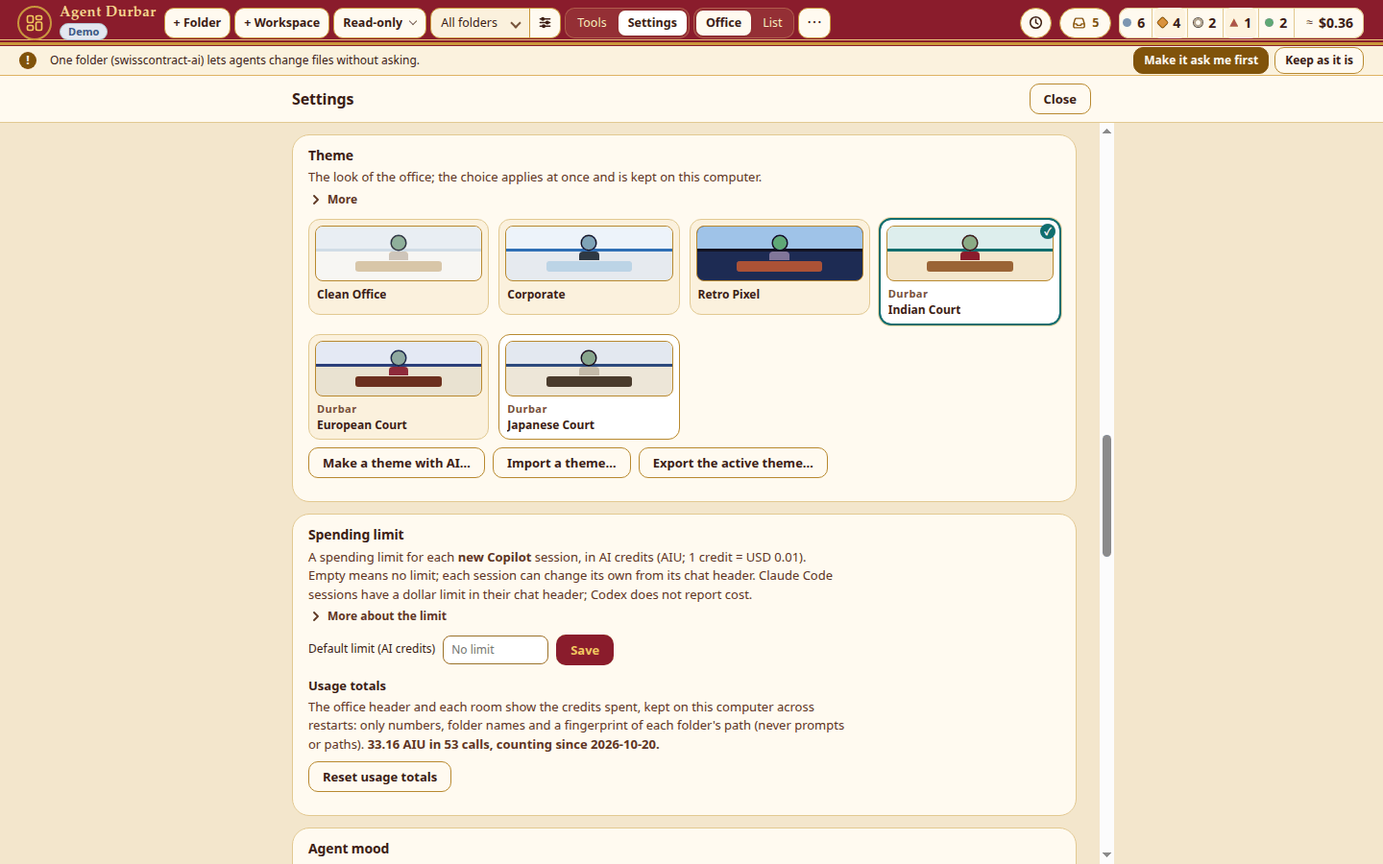
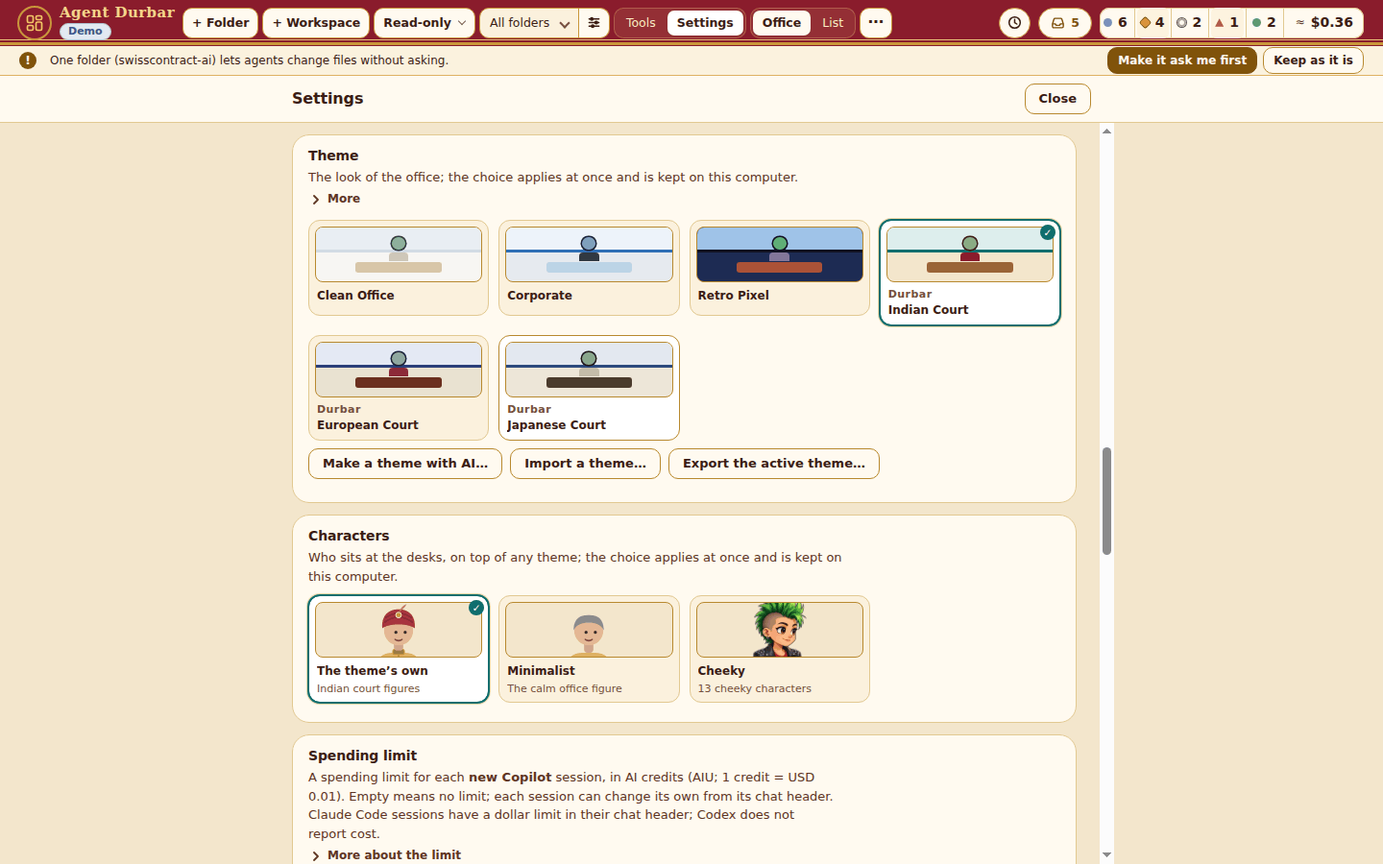
077: Characters docs, pictures and spec status (T076..T083, 035 T018)
The theme picker picture is retaken (040-theme-picker: Characters now
follows Theme); the Settings section and Cheeky on Retro Pixel at both
sizes are in docs/screenshots/077-characters-*. FR-064..FR-070 tagged
with their evidence; check:office with Cheeky fails only the cases it
fails without it on Retro Pixel and Corporate (recorded). The driver
takes calm pictures; stale 'Cheeky Crew theme' comments fixed.

Claude-Session: https://claude.ai/code/session_01Mj63agcLftbxvrSoGqM1Fp

diff --git a/scripts/check-characters.js b/scripts/check-characters.js
@@ -94,7 +94,7 @@ module.exports = async (ctx) => {
         await H.clearToasts();
         await ctx.sleep(400);
         assert.ok(await H.until(inView, 3000), `${where}: still in view before the picture`);
-        await ctx.shot(path.join(out, `077-characters-settings-${tag}.png`));
+        await H.shot(path.join(out, `077-characters-settings-${tag}.png`), { prep: 'mouse' });
       }
       await close();
       let d = await desks();
@@ -106,7 +106,7 @@ module.exports = async (ctx) => {
       assert.strictEqual(await H.js(`window.THEME.current().id`), theme, `${where}: the theme stays ${theme}`);
       assert.strictEqual(await H.js(`window.THEME.themeKit()`), kit, `${where}: the theme's own kit is unchanged`);
       await H.clearToasts();
-      await ctx.shot(path.join(out, `077-characters-cheeky-${theme}-${tag}.png`));
+      await H.shot(path.join(out, `077-characters-cheeky-${theme}-${tag}.png`), { prep: 'calm' }); // the pointer off the desks (no hover pencil), no toast
       // Minimalist on top of the theme
       await pickChars('minimalist');
       await close();

diff --git a/src/renderer/scenekits.js b/src/renderer/scenekits.js
@@ -297,7 +297,7 @@
     hand: (o, x, y) => roundHand(o, x, y),
   };
 
-  /* ---------- Crew (spec 077): a playful desk for the Cheeky Crew theme; colours from tokens only, no literals ---------- */
+  /* ---------- Crew (spec 077): a playful desk for Characters = Cheeky (on any theme, FR-065); colours from tokens only, no literals ---------- */
   /* Furniture and a plain figure for now: the characters (clothes, hair, eyewear, mug, desk prop) come with the art format.
      `o.crew` is the character id app.js hands over; it is part of the signature so a scene is never reused for another character. */
   /* The character is a portrait (spec 077 FR-050..FR-055): `<image>` in a fixed box, one picture per pose, chosen by the status. Everything

diff --git a/src/renderer/theme.js b/src/renderer/theme.js
@@ -174,7 +174,7 @@
     '--pb-done':'#e0eee6',
     '--pc-done':'#2f6a47',
 
-    /* the Cheeky Crew kit's own accents (spec 077): trim and outline colours of its furniture and, later, its characters */
+    /* the crew kit's own accents (spec 077, Characters = Cheeky): trim and outline colours of its furniture and, later, its characters */
     '--crew-ink':'#3a3331',
     '--crew-accent':'#d9577a',
     '--crew-accent-2':'#2f9c95',

diff --git a/specs/077-cheeky-crew/spec.md b/specs/077-cheeky-crew/spec.md
@@ -2,7 +2,7 @@
 
 <!-- specs-index (the row of the generated specs index; npm run specs:index shows it)
 group: 046
-title: Cheeky crew (issue #558): a built-in theme and scene kit with 13 AI-generated, person-reviewed portrait characters (3 poses each), picked at random per session and kept across restarts; status cues and spec 034 moods unchanged
+title: Cheeky crew (issue #558; a Characters choice since issue #814): a built-in scene kit with 13 AI-generated, person-reviewed portrait characters (3 poses each), picked at random per session and kept across restarts; status cues and spec 034 moods unchanged
 status: built 2026-10-23 (experimental, no priority); since 2026-10-28 (issue #814) Cheeky is a Characters option in Settings on any theme, no longer a theme (FR-064..FR-070, Q9 open): raster path (Q1 = (d)), 13 characters x 3 poses (FR-059), face crops and the doubled desk portrait (FR-060); open: check:crew over every mood and density and a reload (T023), a rendered every-status sheet (T025); known gaps: 1280x800 couch seat 20 px under its chat badge, no capture-against-canvas sharpness check, Windows not run by a person
 -->
 
@@ -136,7 +136,7 @@ The walking figure in the lobby, the resting figure in the lounge, the chat head
 ### Kit and theme
 
 - **FR-001** A new scene kit **`crew`** joins the fixed kit list (spec 035 FR-013) in `scenekits.js` (`KITS`), `theme.js` (`SCENE_KITS`) and `src/shared/themes.ts` (`SCENE_KITS`); `test:scenekits` already asserts the lists match (`scripts/test-scenekits.ts:19`). The AI theme maker prompt lists it (Q5).
-- **FR-002** A new built-in theme **Cheeky Crew** (id `cheeky-crew`, `scene: 'crew'`, an existing UI style, `extends: 'clean-office'`) is registered in `theme.js` like the other built-in packs and named in every list of built-in ids (`src/main/ipc/themes.ts:23` and the test and driver lists, see plan). It lays out exactly like Clean Office (spec 035 FR-010): only colours and the kit change.
+- **FR-002** (superseded 2026-10-28 by FR-066: Cheeky is now a Characters choice, not a theme) A new built-in theme **Cheeky Crew** (id `cheeky-crew`, `scene: 'crew'`, an existing UI style, `extends: 'clean-office'`) is registered in `theme.js` like the other built-in packs and named in every list of built-in ids (`src/main/ipc/themes.ts:23` and the test and driver lists, see plan). It lays out exactly like Clean Office (spec 035 FR-010): only colours and the kit change.
 - **FR-003** The `crew` kit draws through the existing composer (`draw()` and `avatar()` in `scenekits.js`), so the halo, screen content, face (eyes and mouth), arms and hands, cup steam, thought bubble and mood signs are the shared code, in the same places and with the same animation hooks (`.pp`, `.head`, `.hand-l`, `.hand-r`, `.wave`, `.tap`, `.bar`, `.cursor`, `.steam`, `.bubble-g`, `.dizzy`, `.sweat`, `.amb`, `.halo`, `.glow`). Its furniture (chair, desk, monitor frame, keyboard) is its own, in a playful style, coloured by tokens.
 
 ### Characters
@@ -232,13 +232,13 @@ FR-011..FR-016 describe the drawn SVG option (b′). If Q1 picks raster, FR-050.
 - 2026-10-27 (review on PR 621, Vikram and Copilot's threads of 2026-10-23): **FR-063** the lifecycle and the fallback are closed. (1) `crew.js` missing is a fallback too (FR-017, T028): `window.DurbarCrew` may be null, every crew call in `app.js` then answers "no character", and the kit draws the plain figure with no throw, on theme pick and on restore at start. (2) The character map follows the **main-session ids**, not the identity of the `agents` array (a removal splices it): a closed session, its helpers, and the last session leave `CREW_MAP`, `CREW_HELP` and `durbar.crew` at the next render. (3) When a character falls back after the chat header or the inbox is open, those avatars are redrawn as the plain figure (`crewRefreshAvatars`), without rebuilding the panel or the inbox. (4) Helpers count in the least-used rule (already in `crewOf`: the main map and the live helper map are both handed to `pickCharacter`; `test:crew` gains the interleaved case). `check:crew` has a step for each of (1)..(3) (the module removed from a copy of `dist/`, sessions removed through the simulator hook `__durbarSimUi.crew`, a character's pictures failing after mount). (5) Vikram's question, answered yes: `test:theme-tokens` asserts that the **authored** tokens of Cheeky Crew (and Clean Office) meet every `CONTRAST_PAIRS` entry, because built-ins are not repaired at run time (`applyTokens` skips `contrastFix` for them); a dark `--bg` mutant fails it. `test:theme` alone did not see it.
 
 - 2026-10-28 (owner decision, Paco, issue #814, 2026-10-27): **Characters, separate from themes** (FR-064..FR-070). Settings gets two choices: **Theme** (colours and look) and **Characters** (who sits at the desks). Cheeky Crew stops being a theme and becomes a Characters option; a crew is a scene kit the user picks (the `SCENE_KITS` list, the raster path and the `FACE` points of FR-050..FR-063 are reused as they are), not a new mechanism. Supersedes FR-002 (the built-in theme) and the "Cheeky Crew theme" wording of FR-055 and FR-061..FR-063: those rules now hold whenever the crew kit is drawn, on any theme.
-  - **FR-064** A **Characters** setting with three values: `theme` (**The theme's own**, the default), `minimalist` (**Minimalist**, today's calm office figure: the `office` kit) and `cheeky` (**Cheeky**: the `crew` kit). New crews are added later as more values. It is saved with the other appearance settings in main's `durbar-settings.json` as `characters` (spec 011 FR-012; `theme` is the default and is not written). Reading is tolerant: a stored value that is not one of the list is dropped, so the default applies. The window sets it through a new validated call `settings:setCharacters`; main accepts only a value from the list and otherwise refuses with `ok: false` and keeps the stored value (no permissive default, review checklist). `settings:get` returns it. No path, no token, no content.
-  - **FR-065** **Kit resolution**: the kit drawn is `kitFor(themeKit, characters)`: with `theme` it is the theme's own kit (its manifest's `scene`, `office` when missing or unknown, spec 035 FR-013); with `minimalist` it is `office`; with `cheeky` it is `crew`. This holds on top of **any** theme: the built-ins, user packs and AI themes. The theme's tokens still colour the kit and its art slots are drawn over it as before (spec 040 FR-023, FR-030); the layout is the same in every kit (`check:geometry`). The choice is part of the scene cache key and of every scene signature (a switch redraws every desk, walker and avatar). Today the theme's own kit is `office` for Clean Office, `corporate` for Corporate, `pixel` for Retro Pixel and the court kit for each of the three courts, so nobody who keeps the default sees a change. `[KNOWN GAP]` Q9 below: the issue's "Minimalist in the normal themes" could also mean Corporate's own is Minimalist; this build keeps Corporate's suits (the theme names that kit) until the owner says otherwise.
-  - **FR-066** **Cheeky Crew is no longer a theme.** It leaves the built-in theme list (`theme.js`, the Theme picker, `THEME.list()`); the `crew` kit stays in `SCENE_KITS` (a user pack may still name `scene: "crew"`, Q5). The id `cheeky-crew` stays **reserved** in main (`BUILT_IN_THEME_IDS`): no imported or AI theme may take it, so an old id can never point at someone's pack. The old theme's warm background and desk colours were the theme's, not the characters', so after the migration the office has Clean Office's colours with the Cheeky characters.
-  - **FR-067** **Migration, once**: when main reads a settings file whose `theme` is `cheeky-crew`, the theme is removed (Clean Office, the default) and `characters` becomes `cheeky`, unless a valid `characters` value is already stored (it is kept); the file is written at once. The next read finds no old id and changes nothing, so the migration runs once and a later choice (for example *The theme's own*) is never overwritten. `settings:setTheme('cheeky-crew')` goes through the same rule (Clean Office plus Cheeky) instead of storing the old id. In the window, a theme id `cheeky-crew` that arrives any other way (the dev and test `DURBAR_THEME` run theme, the simulator's `theme=` query) applies Clean Office with Characters Cheeky when Characters is still the default, for that run only (nothing saved). Any other unknown theme id still falls back to Clean Office (spec 035), and an unknown `characters` value to the default.
-  - **FR-068** **Settings UI**: a **Characters** section right after **Theme**, built like the theme picker (`#thList`): a list `#chList` of the same pick buttons (`aria-pressed`, a name, one per value), each with a small preview of that crew (one figure drawn by the same `avatar()` path the office uses: the theme's own kit with the current theme, the office figure, one Cheeky portrait). *The theme's own* names the figures it means today (for example "Pixel figures"). A click applies at once (cross-fade like a theme change, none under reduced motion), saves through `settings:setCharacters`, and says so in a toast; the list shows the new choice at once. A refused save says so (toast), the choice on screen stays the one in force. Text 10.5px or more; the section fits at 1280x800 like the rest of Settings.
-  - **FR-069** **Unchanged with every crew and theme**: status cues and overlays (FR-053), the spec 034 moods and Serious mode, the needs-you and New zoom (FR-062: keyed on `.crew-pic`, so any theme), the idle rule (FR-061: likewise), the per-session character map (FR-020..FR-024: kept whatever the theme or choice), the fallback (FR-017, FR-055, FR-063), contrast and size rules (`test:theme`, `test:theme-tokens`).
-  - **FR-070** **Checks**: unit tests for the migration (old id to Clean Office plus Cheeky, written once, an existing choice kept, an unknown value dropped, `setTheme` with the old id), the settings round trip (`setCharacters` valid, refused, survives a restart, `settings:get` through the IPC handler), and kit resolution (every value on every built-in theme, the legacy id, a user pack, an unknown value); the Characters list in `theme.js` and in `src/shared/characters.ts` must be equal. `check:crew` runs with Characters = Cheeky picked in Settings on a theme named by `CREW_THEME` (default Clean Office), and is run on **Retro Pixel** and **Corporate** at 1440x900 and 1280x800 (no built-in theme has a dark surface, agent notes 2026-10-21; Retro has the dark floor, so it stands in for "one dark"). `check:office` takes `OFFICE_CHARACTERS` (the `characters=` simulator query) and is run with Cheeky on the same two themes at both sizes. A new driver `check-characters` picks Cheeky on Retro Pixel and on Corporate through Settings, checks the desks draw portraits, then picks *The theme's own* and checks Retro's pixel figures and Corporate's suits come back; it also switches the theme with Cheeky on (the crew stays, and the open Settings names the new theme's own figures). That the choice survives a restart is the unit test's (the simulator keeps its settings in the page, so a reload starts from its query). Every wait is `until()` with a generous timeout.
+  - **FR-064** `[IMPLEMENTED]` (`test:` `test:characters`) A **Characters** setting with three values: `theme` (**The theme's own**, the default), `minimalist` (**Minimalist**, today's calm office figure: the `office` kit) and `cheeky` (**Cheeky**: the `crew` kit). New crews are added later as more values. It is saved with the other appearance settings in main's `durbar-settings.json` as `characters` (spec 011 FR-012; `theme` is the default and is not written). Reading is tolerant: a stored value that is not one of the list is dropped, so the default applies. The window sets it through a new validated call `settings:setCharacters`; main accepts only a value from the list and otherwise refuses with `ok: false` and keeps the stored value (no permissive default, review checklist). `settings:get` returns it. No path, no token, no content.
+  - **FR-065** `[IMPLEMENTED]` (`test:` `test:characters`; `sim:` `check-characters`) **Kit resolution**: the kit drawn is `kitFor(themeKit, characters)`: with `theme` it is the theme's own kit (its manifest's `scene`, `office` when missing or unknown, spec 035 FR-013); with `minimalist` it is `office`; with `cheeky` it is `crew`. This holds on top of **any** theme: the built-ins, user packs and AI themes. The theme's tokens still colour the kit and its art slots are drawn over it as before (spec 040 FR-023, FR-030); the layout is the same in every kit (`check:geometry`). The choice is part of the scene cache key and of every scene signature (a switch redraws every desk, walker and avatar). Today the theme's own kit is `office` for Clean Office, `corporate` for Corporate, `pixel` for Retro Pixel and the court kit for each of the three courts, so nobody who keeps the default sees a change. `[KNOWN GAP]` Q9 below: the issue's "Minimalist in the normal themes" could also mean Corporate's own is Minimalist; this build keeps Corporate's suits (the theme names that kit) until the owner says otherwise.
+  - **FR-066** `[IMPLEMENTED]` (`test:` `test:characters`, `test:theme`) **Cheeky Crew is no longer a theme.** It leaves the built-in theme list (`theme.js`, the Theme picker, `THEME.list()`); the `crew` kit stays in `SCENE_KITS` (a user pack may still name `scene: "crew"`, Q5). The id `cheeky-crew` stays **reserved** in main (`BUILT_IN_THEME_IDS`): no imported or AI theme may take it, so an old id can never point at someone's pack. The old theme's warm background and desk colours were the theme's, not the characters', so after the migration the office has Clean Office's colours with the Cheeky characters.
+  - **FR-067** `[IMPLEMENTED]` (`test:` `test:characters`; `sim:` `check-crew` loads the crew from the address) **Migration, once**: when main reads a settings file whose `theme` is `cheeky-crew`, the theme is removed (Clean Office, the default) and `characters` becomes `cheeky`, unless a valid `characters` value is already stored (it is kept); the file is written at once. The next read finds no old id and changes nothing, so the migration runs once and a later choice (for example *The theme's own*) is never overwritten. `settings:setTheme('cheeky-crew')` goes through the same rule (Clean Office plus Cheeky) instead of storing the old id. In the window, a theme id `cheeky-crew` that arrives any other way (the dev and test `DURBAR_THEME` run theme, the simulator's `theme=` query) applies Clean Office with Characters Cheeky when Characters is still the default, for that run only (nothing saved). Any other unknown theme id still falls back to Clean Office (spec 035), and an unknown `characters` value to the default.
+  - **FR-068** `[IMPLEMENTED]` (`sim:` `check-characters`; pictures `docs/screenshots/077-characters-settings-1440x900.png`, `-1280x800.png`, `077-characters-cheeky-retro-*.png`, and the retaken `040-theme-picker-1440x900.png`) **Settings UI**: a **Characters** section right after **Theme**, built like the theme picker (`#thList`): a list `#chList` of the same pick buttons (`aria-pressed`, a name, one per value), each with a small preview of that crew (one figure drawn by the same `avatar()` path the office uses: the theme's own kit with the current theme, the office figure, one Cheeky portrait). *The theme's own* names the figures it means today (for example "Pixel figures"). A click applies at once (cross-fade like a theme change, none under reduced motion), saves through `settings:setCharacters`, and says so in a toast; the list shows the new choice at once. A refused save says so (toast), the choice on screen stays the one in force. Text 10.5px or more; the section fits at 1280x800 like the rest of Settings.
+  - **FR-069** `[IMPLEMENTED]` (`sim:` `check-crew` on Clean Office, Retro Pixel and Corporate at 1440x900 and 1280x800: zones, poses, sharpness, idle opacity, the glow zoom, the fallbacks) **Unchanged with every crew and theme**: status cues and overlays (FR-053), the spec 034 moods and Serious mode, the needs-you and New zoom (FR-062: keyed on `.crew-pic`, so any theme), the idle rule (FR-061: likewise), the per-session character map (FR-020..FR-024: kept whatever the theme or choice), the fallback (FR-017, FR-055, FR-063), contrast and size rules (`test:theme`, `test:theme-tokens`).
+  - **FR-070** `[IMPLEMENTED]` **Checks**: unit tests for the migration (old id to Clean Office plus Cheeky, written once, an existing choice kept, an unknown value dropped, `setTheme` with the old id), the settings round trip (`setCharacters` valid, refused, survives a restart, `settings:get` through the IPC handler), and kit resolution (every value on every built-in theme, the legacy id, a user pack, an unknown value); the Characters list in `theme.js` and in `src/shared/characters.ts` must be equal. `check:crew` runs with Characters = Cheeky picked in Settings on a theme named by `CREW_THEME` (default Clean Office), and is run on **Retro Pixel** and **Corporate** at 1440x900 and 1280x800 (no built-in theme has a dark surface, agent notes 2026-10-21; Retro has the dark floor, so it stands in for "one dark"). `check:office` takes `OFFICE_CHARACTERS` (the `characters=` simulator query) and is run with Cheeky on the same two themes at both sizes. A new driver `check-characters` picks Cheeky on Retro Pixel and on Corporate through Settings, checks the desks draw portraits, then picks *The theme's own* and checks Retro's pixel figures and Corporate's suits come back; it also switches the theme with Cheeky on (the crew stays, and the open Settings names the new theme's own figures). That the choice survives a restart is the unit test's (the simulator keeps its settings in the page, so a reload starts from its query). Every wait is `until()` with a generous timeout. Result (2026-10-28, Linux, xvfb): `check:office` with Cheeky fails the same cases as without it, on both themes (Retro Pixel 571/573: the two *demo* header cases; Corporate 568/573: the same two and three *solo +expanded* room-name minimum cases at 1440x900); those are spec 001 header cases that fail on `main`'s layout in these themes, which pull requests do not run (spec 008 FR-111), not a Characters effect. `[KNOWN GAP]` not run on Windows or macOS by a person; the migration was not tried on a real profile that had Cheeky Crew saved (unit test on a scratch settings file only).
 
 ### Q9 (open, 2026-10-28): Corporate's own characters
 

diff --git a/specs/077-cheeky-crew/tasks.md b/specs/077-cheeky-crew/tasks.md
@@ -78,11 +78,11 @@ Q2-Q8 are answered; **Q1 (art format) is open again** (2026-10-23). Tasks are ma
 
 ## Characters, separate from themes (delta 2026-10-28, issue #814; FR-064..FR-070)
 
-- [ ] T076 Spec delta: FR-064..FR-070, Q9, the spec 035 cross-reference (FR-016, T018) [spec]
-- [ ] T077 `src/shared/characters.ts`: the list, `parseCharacters`, `kitFor` and the migration rule; `characters` in `AppSettings` and `parseSettings`; `SettingsStore.load` migrates once, `setCharacters`, `setTheme` with the old id; `settings:setCharacters` and `settings:get`; preload and `api.ts` [FR-064, FR-067]
-- [ ] T078 `theme.js`: Cheeky Crew leaves the built-in list; `setCharacters`, `characters`, `themeKit`, `kitFor`, `sceneKit` resolves the choice; `themeIdForCache` changes with it; `cheeky-crew` kept reserved in main [FR-065, FR-066]
-- [ ] T079 `app.js` and `screens.js`: boot applies the saved choice and the legacy id; the Characters section with previews; apply, save, toast; the simulator bridge keeps the choice in memory and reads `characters=` [FR-067, FR-068]
-- [ ] T080 Tests: `test:characters` (migration, round trip through the IPC handler, kit resolution on every theme, list equality); the old theme removed from `test:theme`, `test:theme-tokens`, `test:userthemes` and the theme lists of the drivers [FR-070]
-- [ ] T081 `check:crew` picks Characters = Cheeky on `CREW_THEME`; run on Retro Pixel and Corporate at both sizes; `check:office` with `OFFICE_CHARACTERS=cheeky` on the same two themes at both sizes [FR-070, FR-069]
-- [ ] T082 Driver `check-characters` (Cheeky, Minimalist and *The theme's own* on Retro Pixel and Corporate, a theme switch with Cheeky on; screenshots of the Settings section at both sizes), in `ui-suite.js` [FR-068, FR-070]
-- [ ] T083 Docs: README *Themes* (Theme and Characters), changelog fragment, agent notes if something new was learned; linked screenshots that show the theme picker retaken (`npm run shots:docs -- --list`) [FR-068]
+- [x] T076 Spec delta: FR-064..FR-070, Q9, the spec 035 cross-reference (FR-016, T018) [spec]
+- [x] T077 `src/shared/characters.ts`: the list, `parseCharacters`, `kitFor` and the migration rule; `characters` in `AppSettings` and `parseSettings`; `SettingsStore.load` migrates once, `setCharacters`, `setTheme` with the old id; `settings:setCharacters` and `settings:get`; preload and `api.ts` [FR-064, FR-067]
+- [x] T078 `theme.js`: Cheeky Crew leaves the built-in list; `setCharacters`, `characters`, `themeKit`, `kitFor`, `sceneKit` resolves the choice; `themeIdForCache` changes with it; `cheeky-crew` kept reserved in main [FR-065, FR-066]
+- [x] T079 `app.js` and `screens.js`: boot applies the saved choice and the legacy id; the Characters section with previews; apply, save, toast; the simulator bridge keeps the choice in memory and reads `characters=` [FR-067, FR-068]
+- [x] T080 Tests: `test:characters` (migration, round trip through the IPC handler, kit resolution on every theme, list equality); the old theme removed from `test:theme`, `test:theme-tokens`, `test:userthemes` and the theme lists of the drivers [FR-070]
+- [x] T081 `check:crew` picks Characters = Cheeky on `CREW_THEME`; run on Retro Pixel and Corporate at both sizes; `check:office` with `OFFICE_CHARACTERS=cheeky` on the same two themes at both sizes [FR-070, FR-069]
+- [x] T082 Driver `check-characters` (Cheeky, Minimalist and *The theme's own* on Retro Pixel and Corporate, a theme switch with Cheeky on; screenshots of the Settings section at both sizes), in `ui-suite.js` [FR-068, FR-070]
+- [x] T083 Docs: README *Themes* (Theme and Characters), changelog fragment, agent notes if something new was learned; linked screenshots that show the theme picker retaken (`npm run shots:docs -- --list`) [FR-068]

diff --git a/specs/035-theme-foundation/spec.md b/specs/035-theme-foundation/spec.md
@@ -125,4 +125,4 @@ FR-013's fixed kit list is now `office`, `corporate`, `pixel`, `court-indian`, `
 
 ### 2026-10-28: Characters, separate from themes (spec 077, issue #814)
 
-- **FR-016** A theme's `scene` (FR-013) is now **the theme's own** characters and furniture: it is drawn while Settings > **Characters** is *The theme's own* (the default). A Characters choice (*Minimalist*: the `office` kit; *Cheeky*: the `crew` kit) replaces it on any theme, built-in or user. Everything else in FR-009..FR-015 is unchanged: the tokens still colour the kit, the art slots are still drawn over it, the layout is the same. Cheeky Crew is no longer a built-in theme (the kit list keeps `crew`). Details, the migration of the old theme and the checks: spec 077 FR-064..FR-070.
+- **FR-016** `[IMPLEMENTED]` A theme's `scene` (FR-013) is now **the theme's own** characters and furniture: it is drawn while Settings > **Characters** is *The theme's own* (the default). A Characters choice (*Minimalist*: the `office` kit; *Cheeky*: the `crew` kit) replaces it on any theme, built-in or user. Everything else in FR-009..FR-015 is unchanged: the tokens still colour the kit, the art slots are still drawn over it, the layout is the same. Cheeky Crew is no longer a built-in theme (the kit list keeps `crew`). Details, the migration of the old theme and the checks: spec 077 FR-064..FR-070.

diff --git a/specs/035-theme-foundation/tasks.md b/specs/035-theme-foundation/tasks.md
@@ -26,4 +26,4 @@
 
 ## Changes 2026-10-28 (spec 077, issue #814)
 
-- [ ] T018 A theme's `scene` is its own characters; Settings > Characters replaces it on any theme (built and tested under spec 077 T077..T082) [FR-016]
+- [x] T018 A theme's `scene` is its own characters; Settings > Characters replaces it on any theme (built and tested under spec 077 T077..T082) [FR-016]
